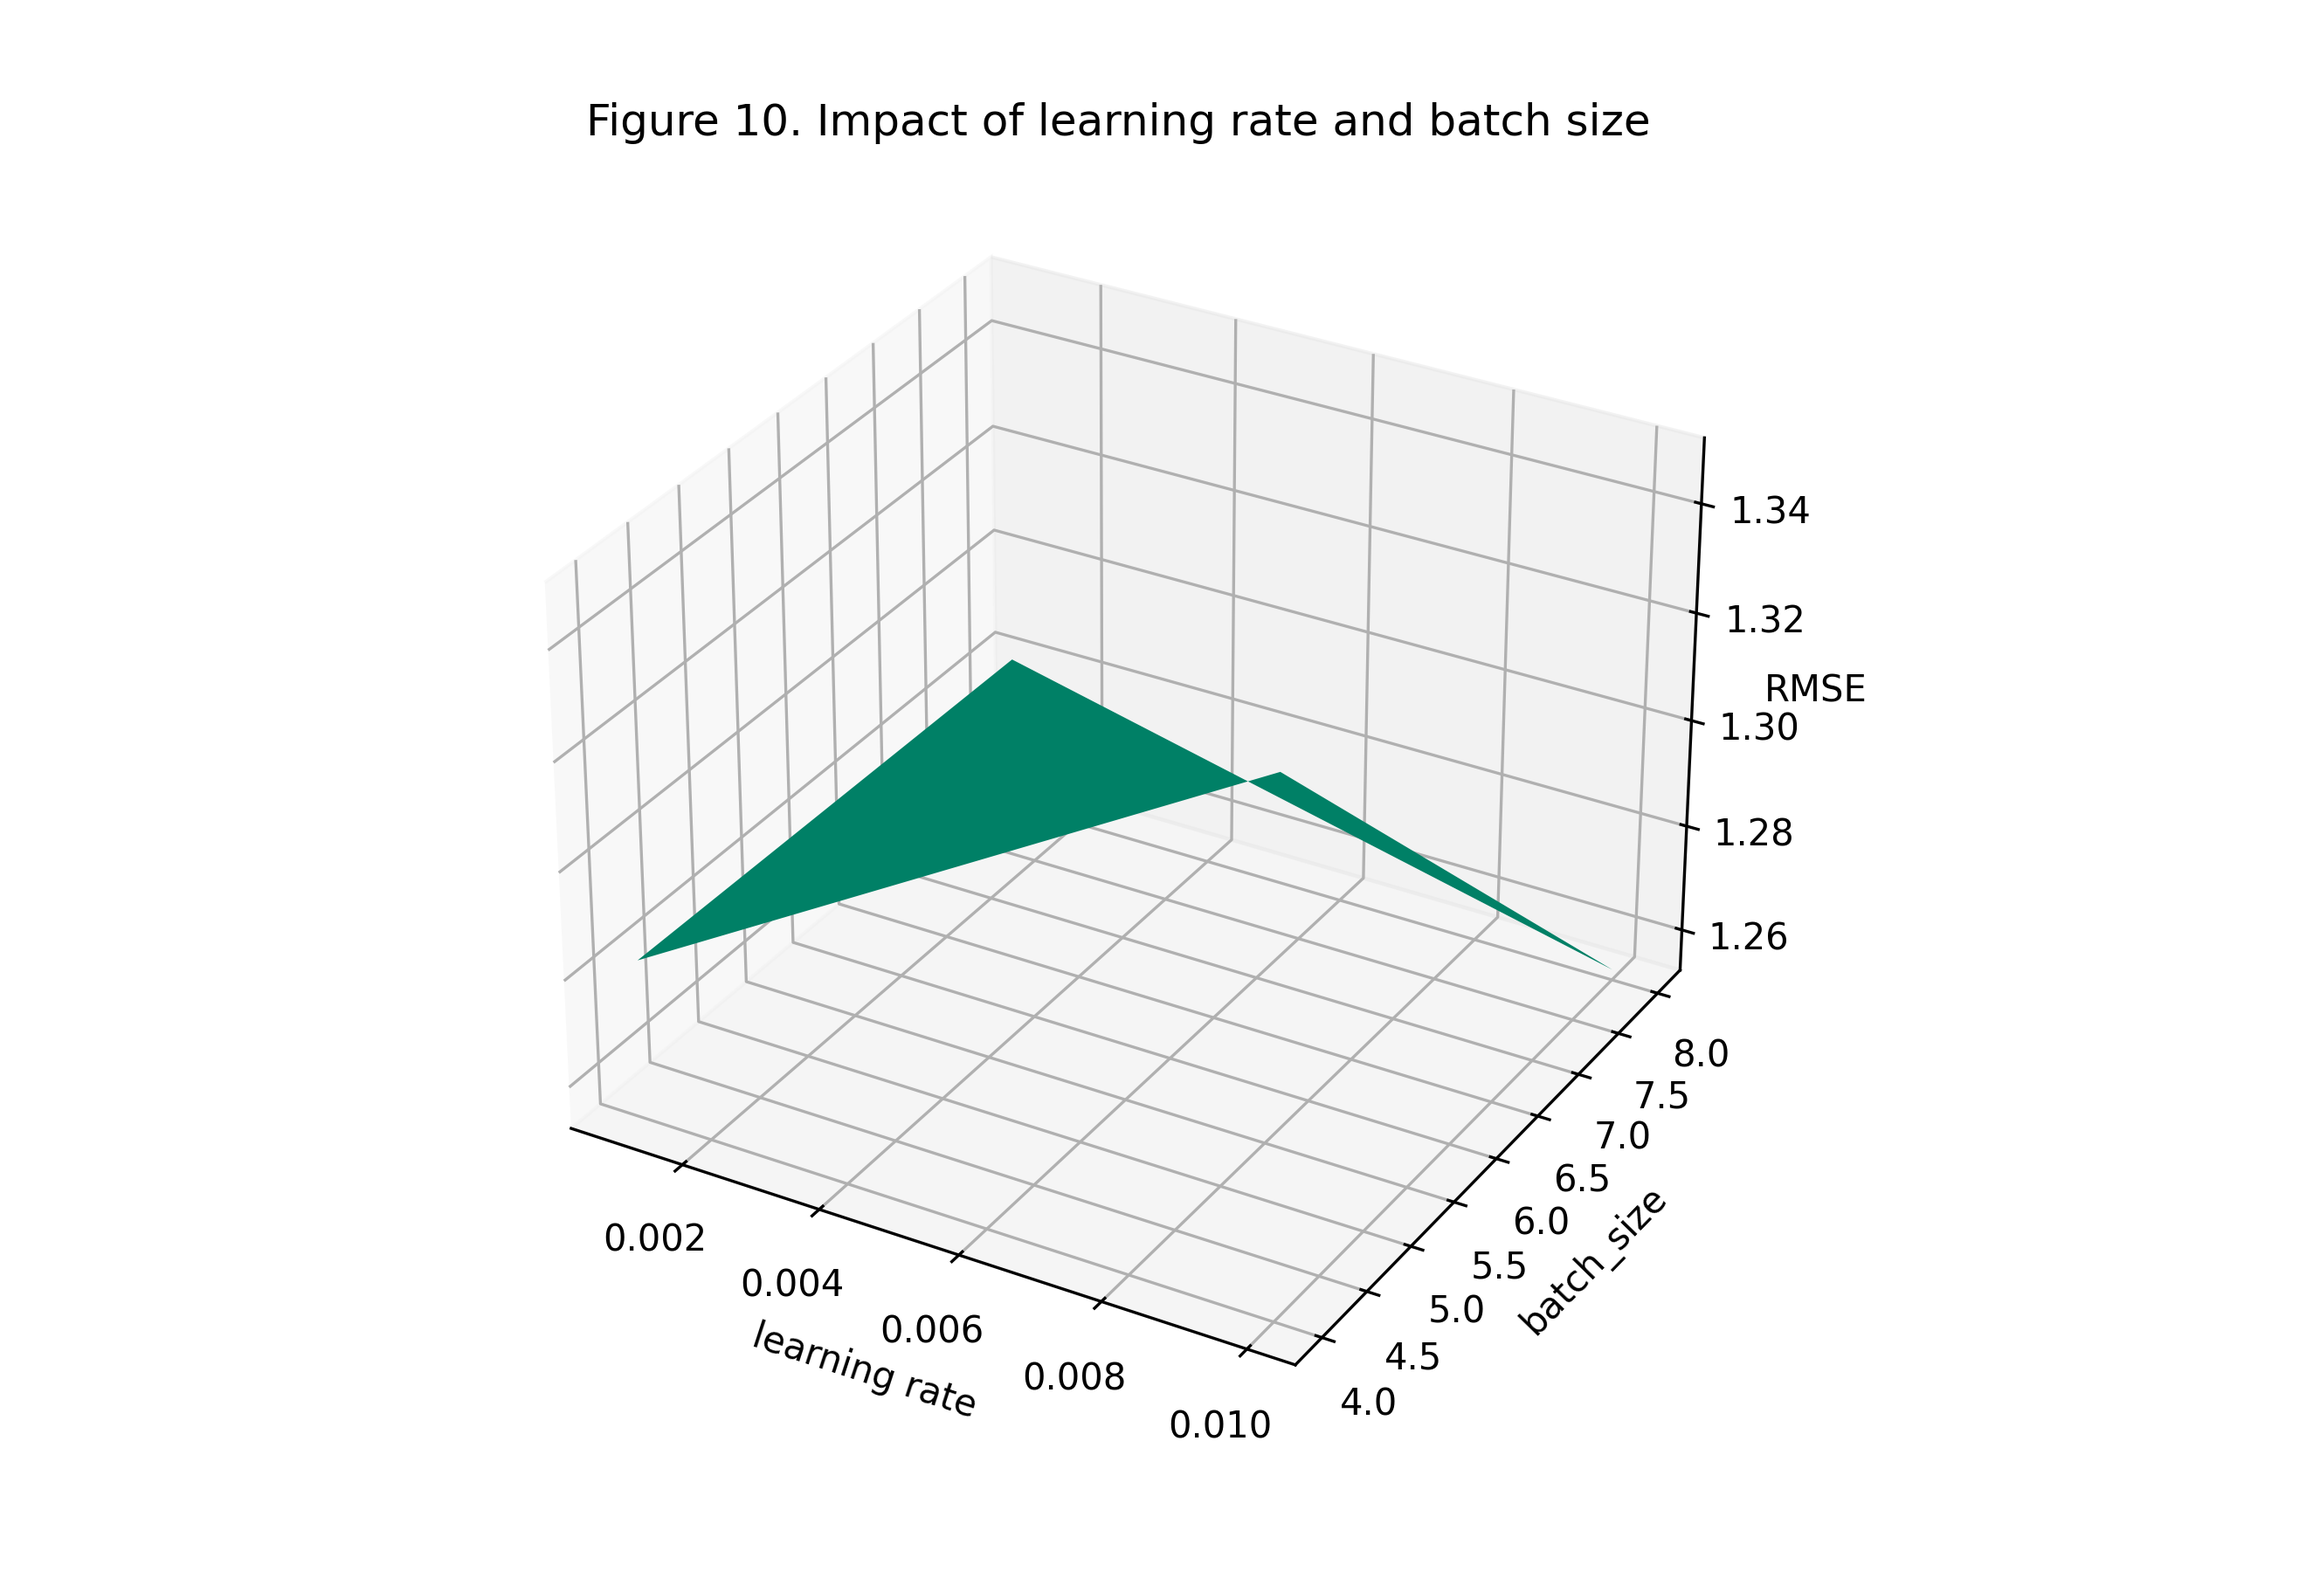
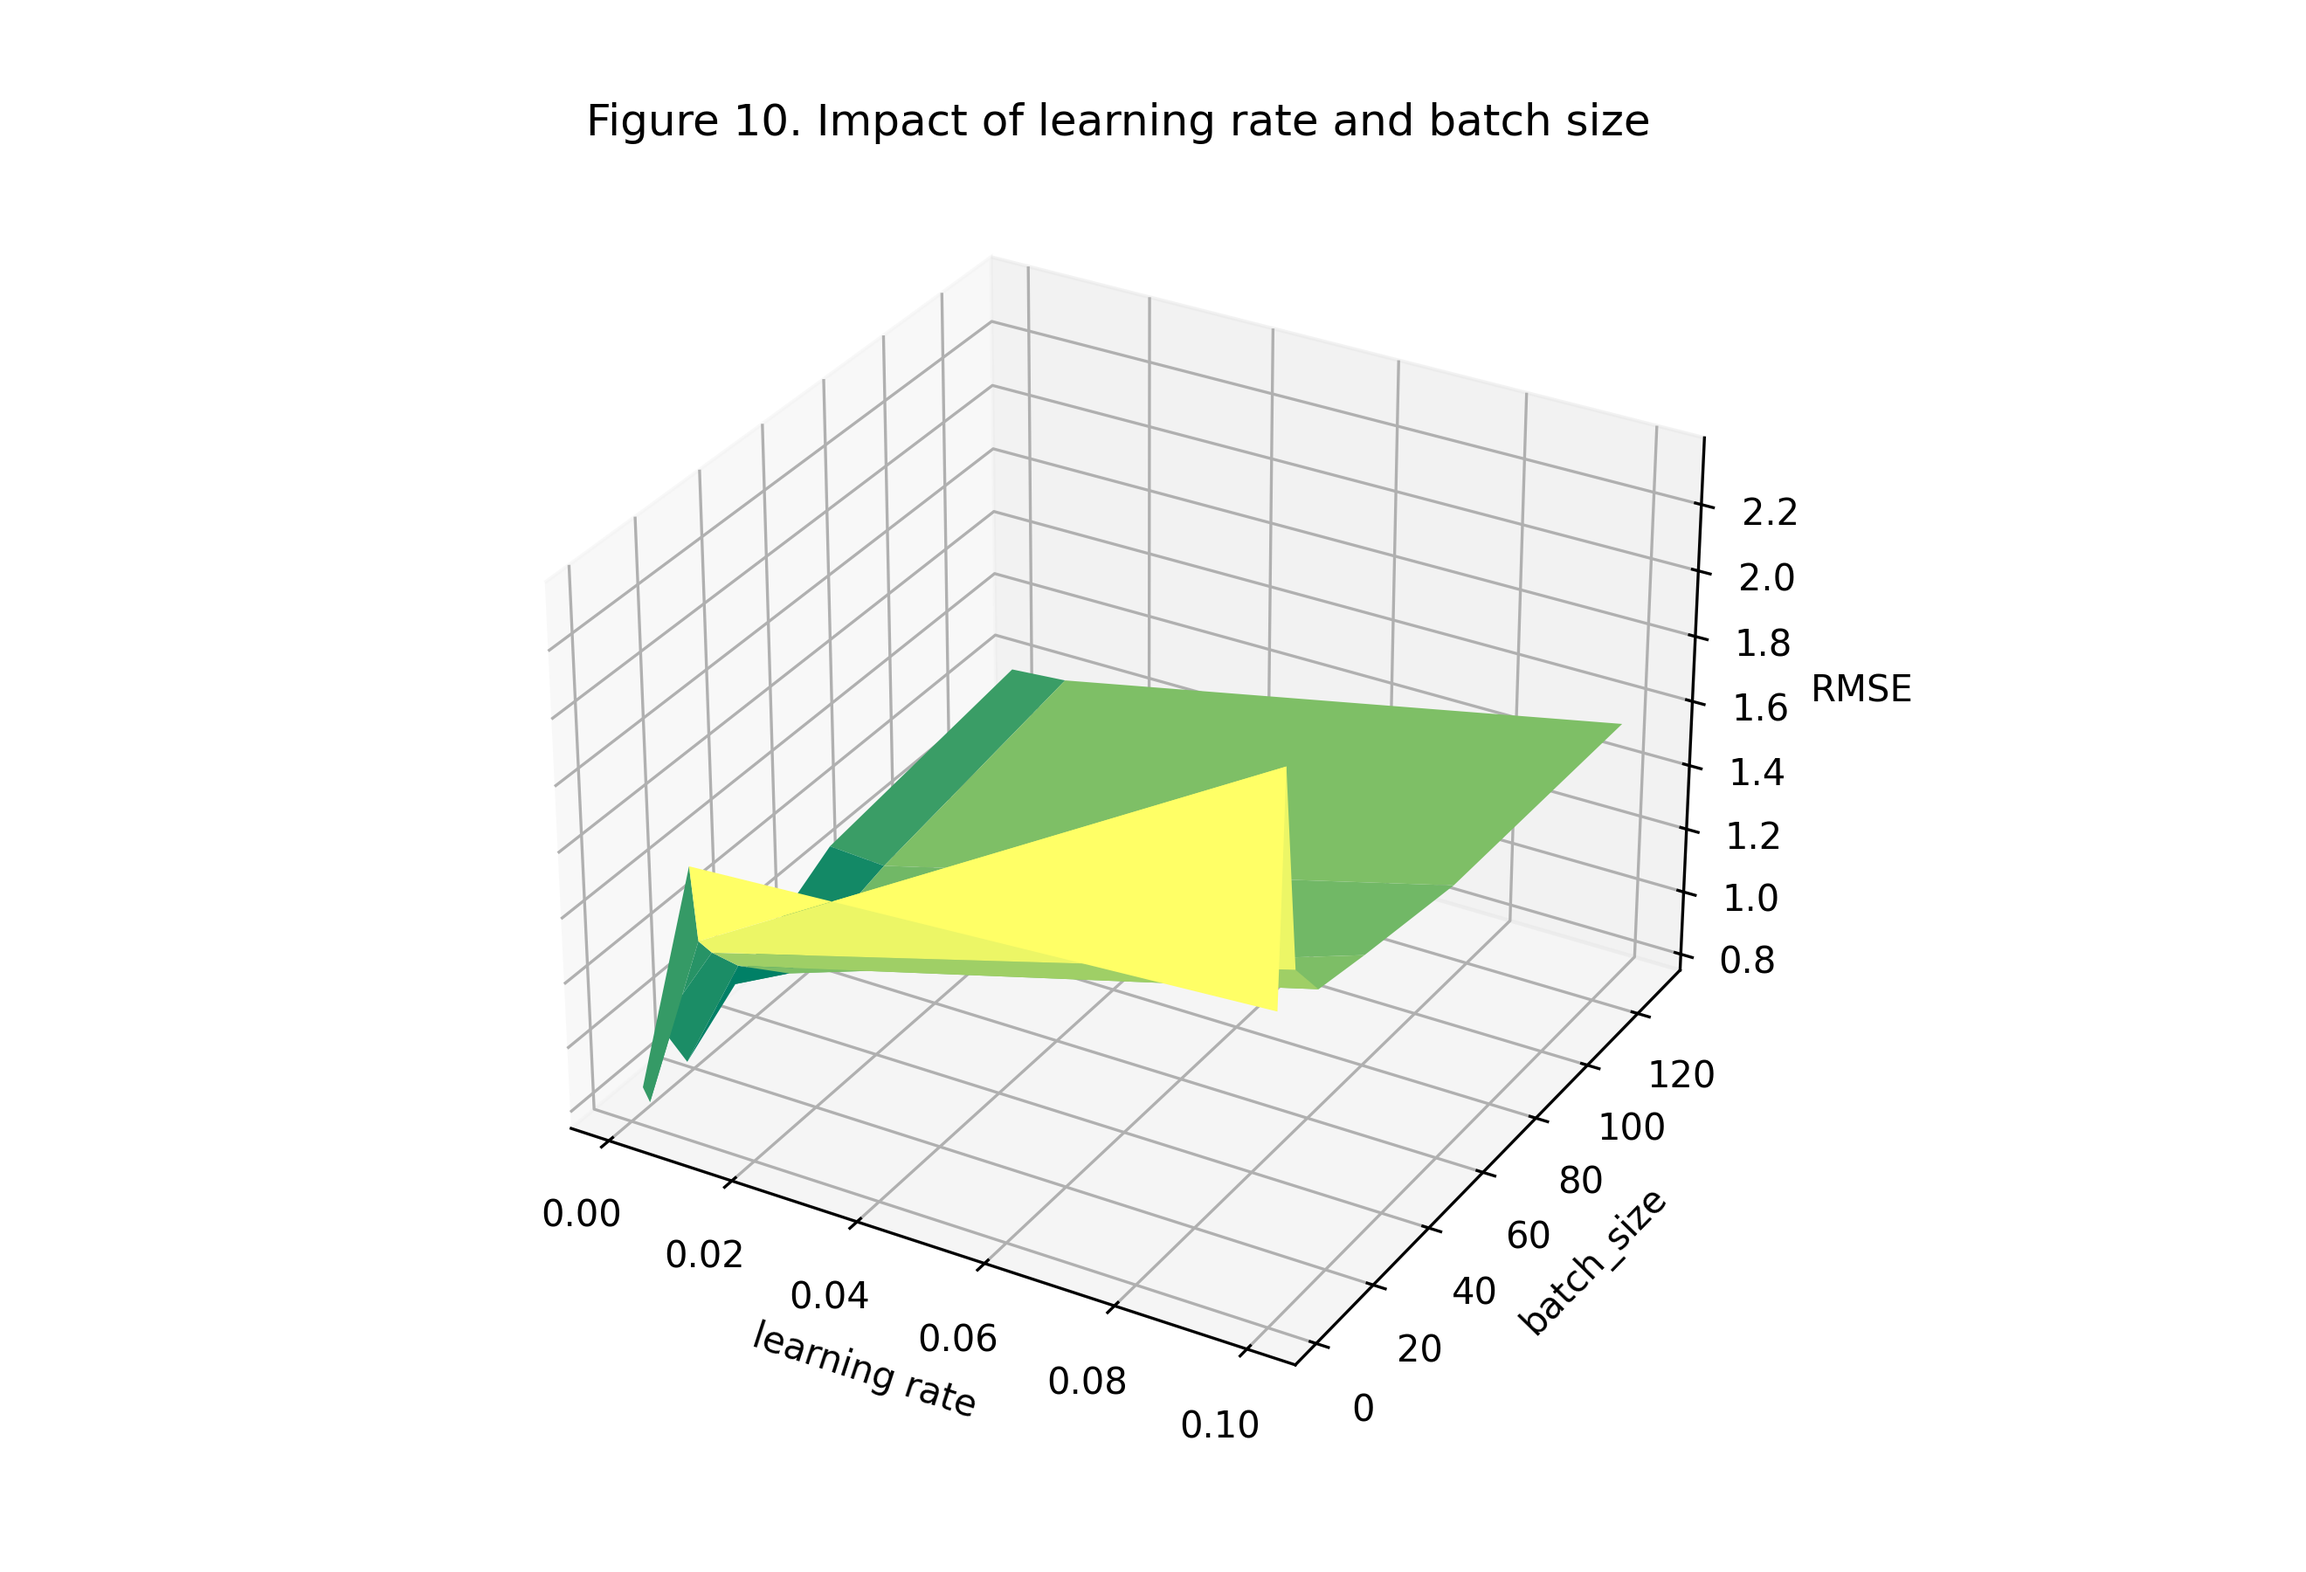
复现

diff --git a/scripts/generate_figure10.py b/scripts/generate_figure10.py
@@ -22,11 +22,57 @@ if str(PROJECT_ROOT) not in sys.path:
 from repro.src.paper_experiments import PaperExperimentConfig, run_fm_gru_metrics, select_device
 
 
+def resolve_path(path_str: str, default_path: Path) -> Path:
+    if not path_str:
+        return default_path
+    path = Path(path_str)
+    if path.is_absolute():
+        return path
+    return PROJECT_ROOT / path
+
+
+def load_rmse_grid_from_csv(csv_path: Path) -> tuple[list[float], list[int], np.ndarray]:
+    frame = pd.read_csv(csv_path)
+    learning_rates = list(dict.fromkeys(frame["learning_rate"].tolist()))
+    batch_sizes = list(dict.fromkeys(frame["batch_size"].tolist()))
+    pivot = frame.pivot(index="learning_rate", columns="batch_size", values="RMSE")
+    rmse_grid = pivot.reindex(index=learning_rates, columns=batch_sizes).to_numpy(dtype=np.float32)
+    return learning_rates, batch_sizes, rmse_grid
+
+
+def plot_figure10(
+    figure_path: Path,
+    learning_rates: list[float],
+    batch_sizes: list[int],
+    rmse_grid: np.ndarray,
+    rmse_text_x: float,
+    rmse_text_y: float,
+) -> None:
+    x_mesh, y_mesh = np.meshgrid(np.asarray(learning_rates, dtype=np.float32), np.asarray(batch_sizes, dtype=np.int32))
+    z_mesh = rmse_grid.T
+
+    plt.rcParams["figure.dpi"] = 300
+    fig = plt.figure(figsize=(8.8, 6))
+    ax = fig.add_subplot(111, projection="3d")
+    ax.set_position([0.05, 0.08, 0.83, 0.82])
+    ax.plot_surface(x_mesh, y_mesh, z_mesh, rstride=1, cstride=1, cmap="summer", edgecolor="none")
+    ax.set_xlabel("learning rate")
+    ax.set_ylabel("batch_size")
+    ax.set_zlabel("")
+    ax.set_title("Figure 10. Impact of learning rate and batch size")
+    fig.text(rmse_text_x, rmse_text_y, "RMSE", rotation=0, va="center", ha="left")
+    fig.subplots_adjust(left=0.03, right=0.94, bottom=0.08, top=0.90)
+    fig.savefig(figure_path, pad_inches=0.25)
+    plt.close(fig)
+
+
 def main() -> None:
     parser = argparse.ArgumentParser(description="生成 Figure 10。")
     parser.add_argument("--batch-sizes", default="2,4,8,16,32,64,128", help="batch_size 列表。")
     parser.add_argument("--learning-rates", default="0.001,0.01,0.1", help="learning_rate 列表。")
     parser.add_argument("--repeats", type=int, default=1, help="每组参数的重复实验次数。")
+    parser.add_argument("--plot-only", action="store_true", help="只根据已有 RMSE 网格 csv 重绘 Figure 10，不重新训练。")
+    parser.add_argument("--grid-csv", default="", help="已有 RMSE 网格 csv 路径；为空时默认使用 repro/output/tables/figure10_rmse_grid.csv。")
     parser.add_argument("--device", default="auto", choices=["auto", "cpu", "cuda"])
     parser.add_argument("--data-path", default="dataset2.csv")
     parser.add_argument("--target-column", default="Dissolved oxygen")
@@ -41,87 +87,88 @@ def main() -> None:
     parser.add_argument("--test-index-path", default="testindex.csv")
     parser.add_argument("--figure-dir", default="repro/output/figures")
     parser.add_argument("--table-dir", default="repro/output/tables")
+    parser.add_argument("--rmse-text-x", type=float, default=0.765)
+    parser.add_argument("--rmse-text-y", type=float, default=0.56)
     args = parser.parse_args()
 
-    figure_dir = PROJECT_ROOT / args.figure_dir
-    table_dir = PROJECT_ROOT / args.table_dir
+    figure_dir = resolve_path(args.figure_dir, PROJECT_ROOT / "repro/output/figures")
+    table_dir = resolve_path(args.table_dir, PROJECT_ROOT / "repro/output/tables")
     figure_dir.mkdir(parents=True, exist_ok=True)
     table_dir.mkdir(parents=True, exist_ok=True)
+    grid_csv_path = resolve_path(args.grid_csv, table_dir / "figure10_rmse_grid.csv")
+    figure_path = figure_dir / "figure10_rmse_surface.png"
 
-    device = select_device(args.device)
-    batch_sizes = [int(item.strip()) for item in args.batch_sizes.split(",") if item.strip()]
-    learning_rates = [float(item.strip()) for item in args.learning_rates.split(",") if item.strip()]
+    if args.plot_only:
+        if not grid_csv_path.exists():
+            raise FileNotFoundError(f"未找到 RMSE 网格文件: {grid_csv_path}")
+        learning_rates, batch_sizes, rmse_grid = load_rmse_grid_from_csv(grid_csv_path)
+    else:
+        device = select_device(args.device)
+        batch_sizes = [int(item.strip()) for item in args.batch_sizes.split(",") if item.strip()]
+        learning_rates = [float(item.strip()) for item in args.learning_rates.split(",") if item.strip()]
 
-    records = []
-    rmse_grid = np.zeros((len(learning_rates), len(batch_sizes)), dtype=np.float32)
-    for lr_index, learning_rate in enumerate(learning_rates):
-        for batch_index, batch_size in enumerate(batch_sizes):
-            config = PaperExperimentConfig(
-                data_path=args.data_path,
-                target_column=args.target_column,
-                epochs=args.epochs,
-                batch_size=batch_size,
-                lr=learning_rate,
-                hidden_size=args.hidden_size,
-                num_layers=args.num_layers,
-                dropout=args.dropout,
-                teacher_prob=args.teacher_prob,
-                fm_k=args.fm_k,
-                seed=args.seed,
-                train_index_path=args.train_index_path,
-                test_index_path=args.test_index_path,
-            )
-            metrics, _ = run_fm_gru_metrics(config=config, device=device, repeats=args.repeats, use_fm=True)
-            rmse_value = float(metrics["RMSE"])
-            rmse_grid[lr_index, batch_index] = rmse_value
-            records.append(
-                {
-                    "learning_rate": learning_rate,
-                    "batch_size": batch_size,
-                    "RMSE": rmse_value,
-                }
-            )
+        records = []
+        rmse_grid = np.zeros((len(learning_rates), len(batch_sizes)), dtype=np.float32)
+        for lr_index, learning_rate in enumerate(learning_rates):
+            for batch_index, batch_size in enumerate(batch_sizes):
+                config = PaperExperimentConfig(
+                    data_path=args.data_path,
+                    target_column=args.target_column,
+                    epochs=args.epochs,
+                    batch_size=batch_size,
+                    lr=learning_rate,
+                    hidden_size=args.hidden_size,
+                    num_layers=args.num_layers,
+                    dropout=args.dropout,
+                    teacher_prob=args.teacher_prob,
+                    fm_k=args.fm_k,
+                    seed=args.seed,
+                    train_index_path=args.train_index_path,
+                    test_index_path=args.test_index_path,
+                )
+                metrics, _ = run_fm_gru_metrics(config=config, device=device, repeats=args.repeats, use_fm=True)
+                rmse_value = float(metrics["RMSE"])
+                rmse_grid[lr_index, batch_index] = rmse_value
+                records.append(
+                    {
+                        "learning_rate": learning_rate,
+                        "batch_size": batch_size,
+                        "RMSE": rmse_value,
+                    }
+                )
 
-    pd.DataFrame(records).to_csv(table_dir / "figure10_rmse_grid.csv", index=False, encoding="utf-8-sig")
+        pd.DataFrame(records).to_csv(grid_csv_path, index=False, encoding="utf-8-sig")
 
-    x_mesh, y_mesh = np.meshgrid(np.asarray(learning_rates, dtype=np.float32), np.asarray(batch_sizes, dtype=np.int32))
-    z_mesh = rmse_grid.T
+        summary = {
+            "source": "trained_from_scratch",
+            "batch_sizes": batch_sizes,
+            "learning_rates": learning_rates,
+            "repeats": args.repeats,
+            "device": str(device),
+            "epochs": args.epochs,
+            "hidden_size": args.hidden_size,
+            "num_layers": args.num_layers,
+            "dropout": args.dropout,
+            "teacher_prob": args.teacher_prob,
+            "fm_k": args.fm_k,
+        }
+        (table_dir / "figure10_rmse_grid_summary.json").write_text(
+            json.dumps(summary, ensure_ascii=False, indent=2),
+            encoding="utf-8",
+        )
 
-    plt.rcParams["figure.dpi"] = 300
-    fig = plt.figure(figsize=(8.8, 6))
-    ax = fig.add_subplot(111, projection="3d")
-    ax.set_position([0.05, 0.08, 0.83, 0.82])
-    ax.plot_surface(x_mesh, y_mesh, z_mesh, rstride=1, cstride=1, cmap="summer", edgecolor="none")
-    ax.set_xlabel("learning rate")
-    ax.set_ylabel("batch_size")
-    ax.set_zlabel("")
-    ax.set_title("Figure 10. Impact of learning rate and batch size")
-    fig.text(0.765, 0.56, "RMSE", rotation=0, va="center", ha="left")
-    fig.subplots_adjust(left=0.03, right=0.94, bottom=0.08, top=0.90)
-    fig.savefig(figure_dir / "figure10_rmse_surface.png", pad_inches=0.25)
-    plt.close(fig)
-
-    summary = {
-        "source": "trained_from_scratch",
-        "batch_sizes": batch_sizes,
-        "learning_rates": learning_rates,
-        "repeats": args.repeats,
-        "device": str(device),
-        "epochs": args.epochs,
-        "hidden_size": args.hidden_size,
-        "num_layers": args.num_layers,
-        "dropout": args.dropout,
-        "teacher_prob": args.teacher_prob,
-        "fm_k": args.fm_k,
-    }
-    (table_dir / "figure10_rmse_grid_summary.json").write_text(
-        json.dumps(summary, ensure_ascii=False, indent=2),
-        encoding="utf-8",
+    plot_figure10(
+        figure_path=figure_path,
+        learning_rates=learning_rates,
+        batch_sizes=batch_sizes,
+        rmse_grid=rmse_grid,
+        rmse_text_x=args.rmse_text_x,
+        rmse_text_y=args.rmse_text_y,
     )
 
     print("已生成 Figure 10:")
-    print(figure_dir / "figure10_rmse_surface.png")
-    print(table_dir / "figure10_rmse_grid.csv")
+    print(figure_path)
+    print(grid_csv_path)
 
 
 if __name__ == "__main__":
